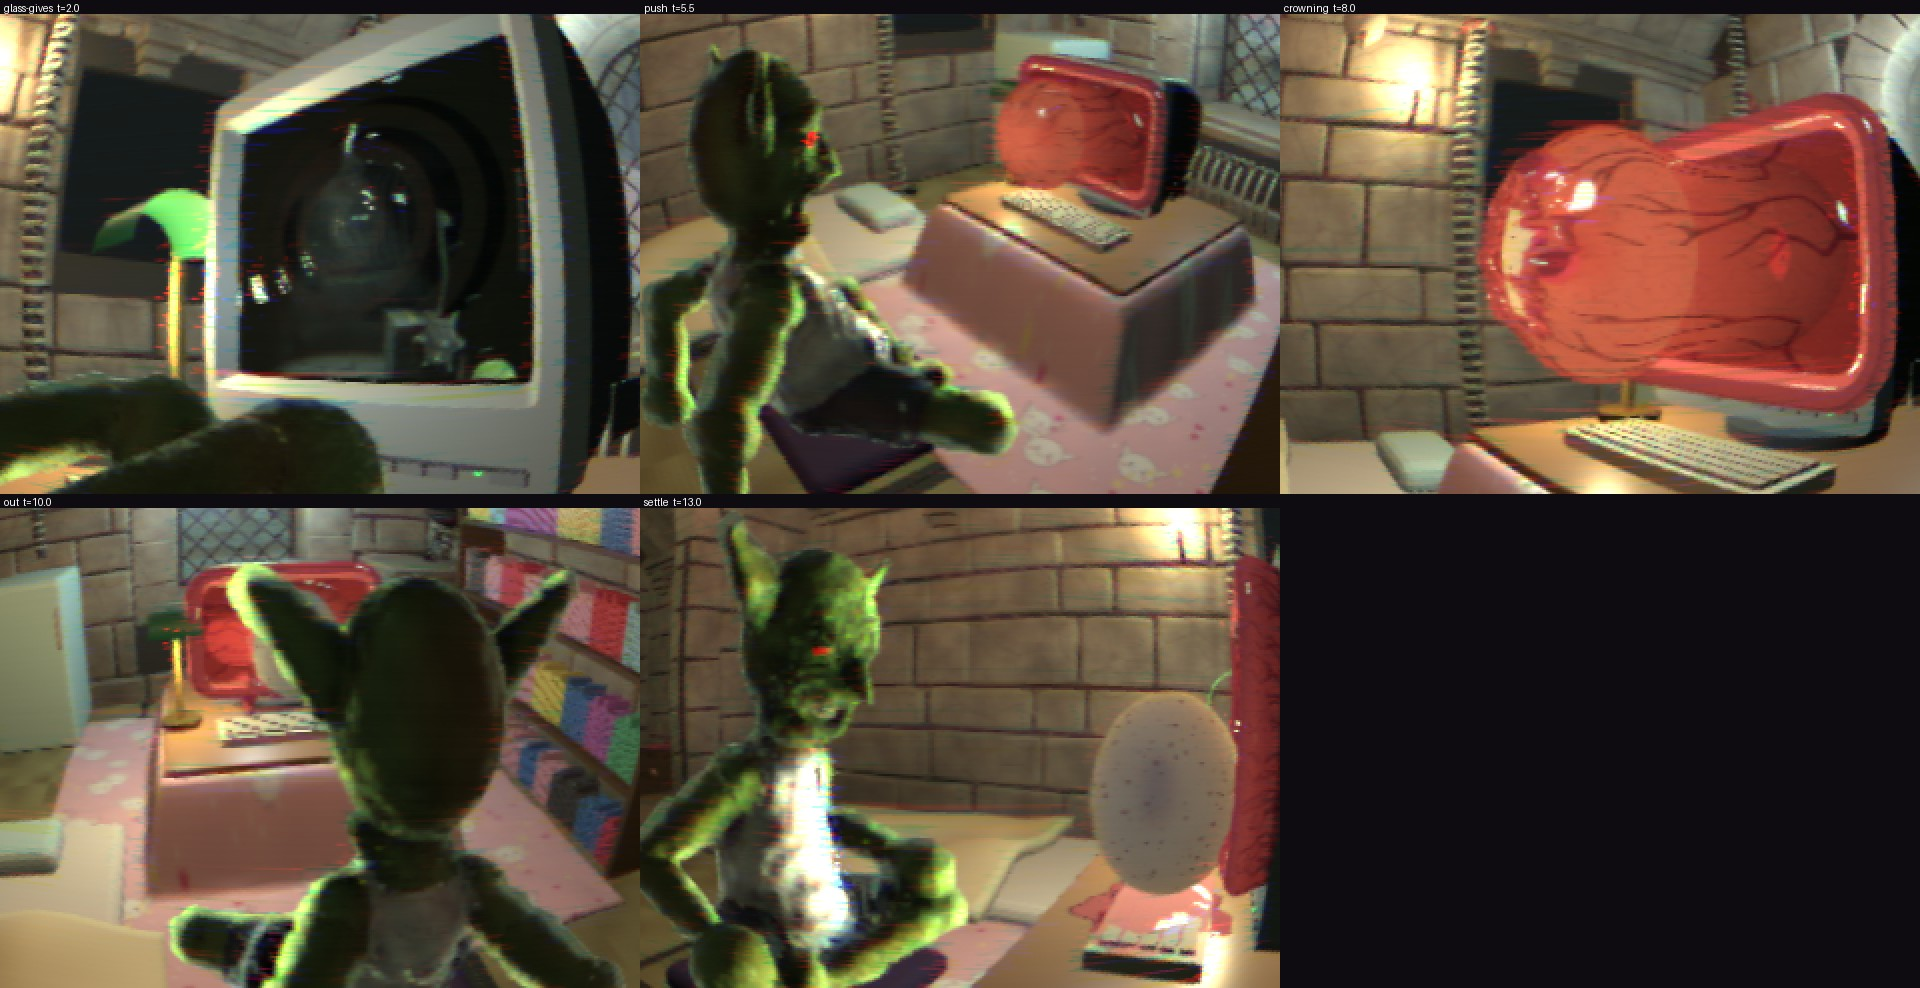
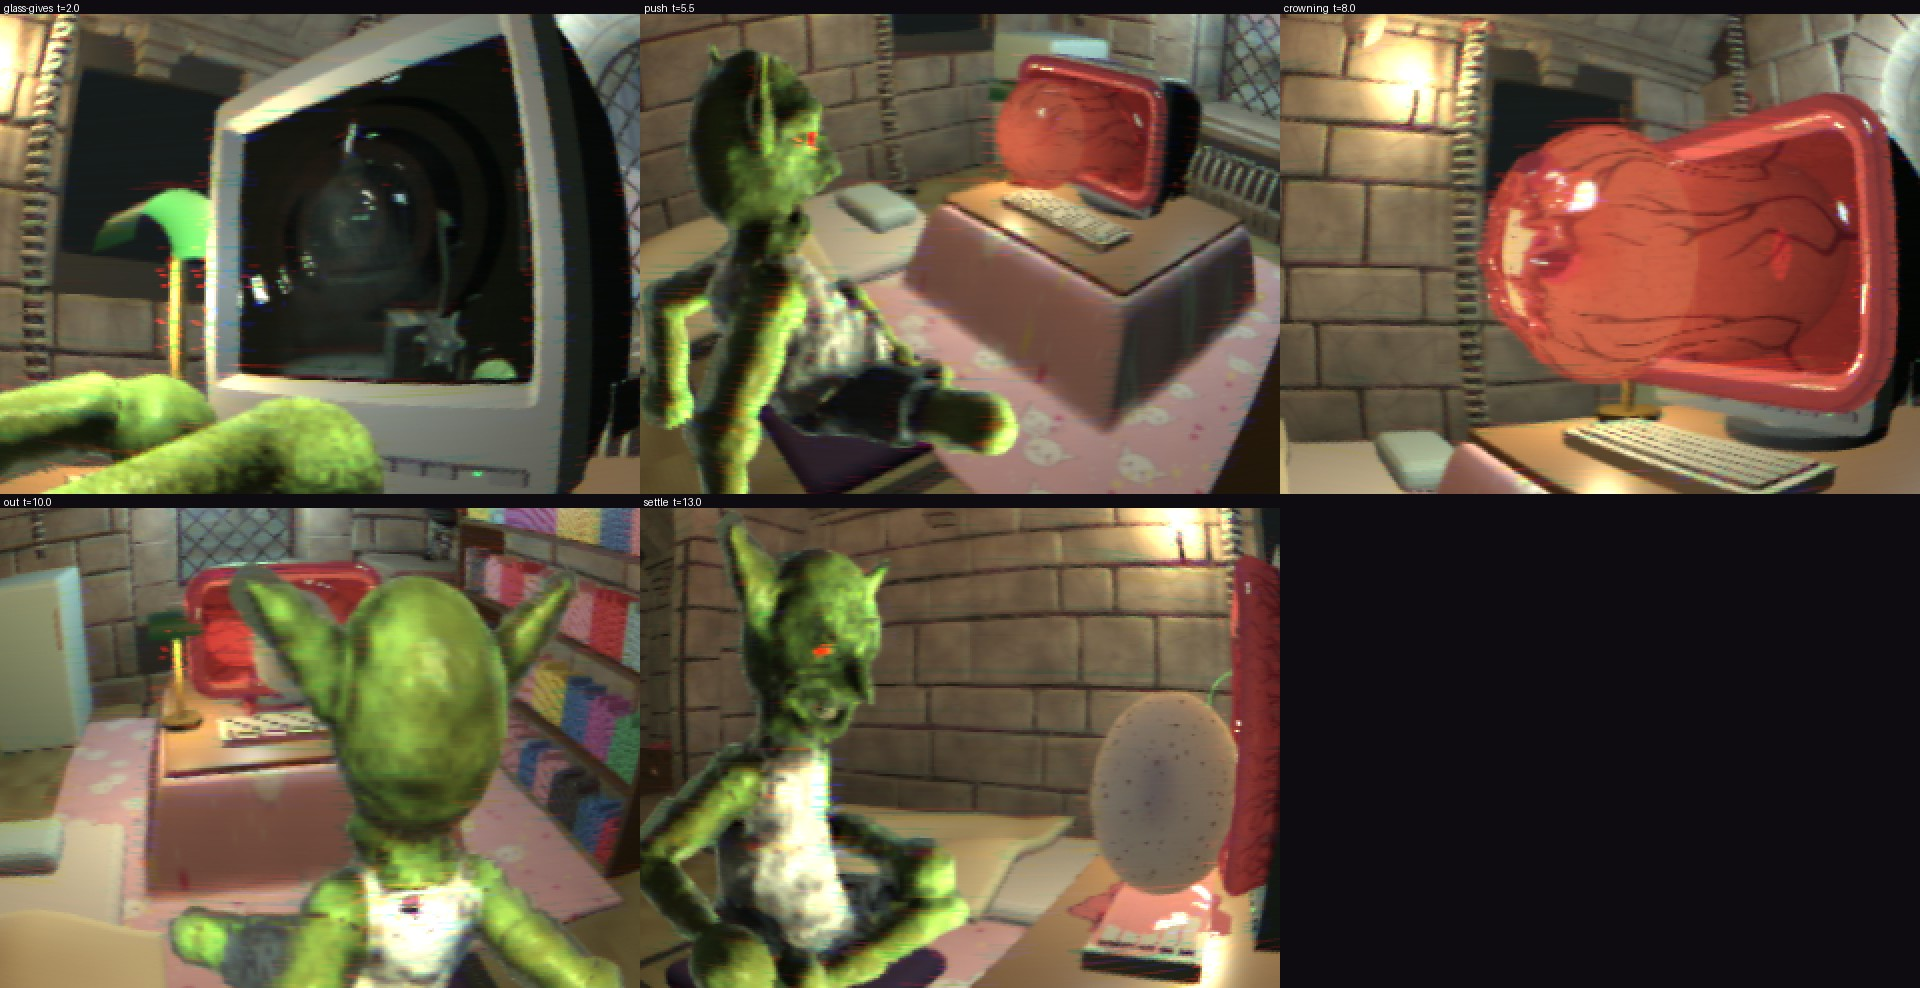
docs(emergence): the room-lamp key and the solid vest, a new sheet

diff --git a/docs/dev-notes/2026-10-16-emergence-in-the-flat/NOTES.md b/docs/dev-notes/2026-10-16-emergence-in-the-flat/NOTES.md
@@ -3,7 +3,7 @@
 **Spec:** [`2026-10-16-emergence-in-the-flat-design.md`](../../superpowers/specs/2026-10-16-emergence-in-the-flat-design.md) · **Plan:** [`2026-10-16-emergence-in-the-flat.md`](../../superpowers/plans/2026-10-16-emergence-in-the-flat.md) · **Branch:** `claude/emergence-in-the-flat`, stacked on `claude/screen-emergence-lab` (PR goblincore/blud#47).
 **Parent notes:** [the lab spike](../2026-10-11-screen-emergence/NOTES.md) (the pass, the timeline, look rounds) · [goblin expressions](../2026-10-13-goblin-expressions/) · [goblin human height](../2026-10-11-goblin-human-height/).
 
-**Sheet:** [`sheet.jpg`](sheet.jpg): the five key frames (glass gives 2.0, push 5.5, crowning 8.0, out 10.0, settle 13.0) at 320 x 240, from `npm run flat-emergence:check`. 320 x 240 is the hardest case: the vest's cloth shell (about 4.6 mm) is under a pixel there and speckles whatever the lighting; the default flow (400 x 300 march, the trained t16 upscaler to 800 x 600) is clean.
+**Sheet:** [`sheet.jpg`](sheet.jpg): the five key frames (glass gives 2.0, push 5.5, crowning 8.0, out 10.0, settle 13.0) at 320 x 240, from `npm run flat-emergence:check`. 320 x 240 is the hardest case; the default flow (400 x 300 march, the trained t16 upscaler to 800 x 600) is cleaner still. The sheet was re-taken 2026-10-20 after the lighting and vest changes below.
 
 ## What was built
 
@@ -33,7 +33,10 @@ The egg-out-of-the-monitor scene plays in the real game, in the Flat, on a debug
 
 ## Lighting (the look round after the first run, 2026-10-18)
 
-The owner saw a "weird white fuzzy cobweb" round the goblin. It was his cold rim (`GOBLIN_RIM` 1.5, `compose.wgsl.ts`: `pow(1 - n.v, 4)` times the key side, unclamped): on the unstable normals of a silhouette at 320 x 240 it throws white HDR sparks onto the air round him. One boot, A/B through the `emergencePuppet()` seam: gone at rim 0, worse with the footprint accept off. The game now lights him with no rim and a fill of 0.30 (was 0.10), `GAME_RIM`/`GAME_FILL` in `game-emergence.ts`. The lab page keeps `GOBLIN_RIM`/`GOBLIN_FILL` and may show the same sparkle at low resolution. He is still lit by a key aimed at the lamp, not by the level's light list (the list is off by default in the game; the actors use `applyWindowKey` and `applyRoomFill`).
+The owner saw a "weird white fuzzy cobweb" round the goblin. It was his cold rim (`GOBLIN_RIM` 1.5, `compose.wgsl.ts`: `pow(1 - n.v, 4)` times the key side, unclamped): on the unstable normals of a silhouette at 320 x 240 it throws white HDR sparks onto the air round him. One boot, A/B through the `emergencePuppet()` seam: gone at rim 0, worse with the footprint accept off. The game now lights him with no rim and a fill of 0.30 (was 0.10), `GAME_RIM`/`GAME_FILL` in `game-emergence.ts`. The lab page keeps `GOBLIN_RIM`/`GOBLIN_FILL` and may show the same sparkle at low resolution. 
+**Room-lamp key (2026-10-20, owner: "light the goblin properly from the room's lamps").** Each step the puppet takes the game's own path for a body off the shared light list (the list is off by default): `applyWindowKey` (direction, strength and flicker of the lamp that presents him), `applyRoomFill`, `applySelfShadow`, from his place in the room (`litFromRoom`, `game-emergence.ts`). The Flat's lamps are deep orange: at the lamp's full colour his green skin went brown, so his key takes the lamp's colour at 0.25 (`KEY_TINT`; `?emergencetint=`). `?emergencekey=0` keeps the old fixed key aimed at the banker's lamp, for an A/B. Effect: the vest no longer blows out to white at the settle, and his hands read in the typing shot. From behind (the 10 s cut) he is still dark: the lamp is in front of him.
+
+**The vest (2026-10-20).** The speckle across his chest was the 3.5 mm cloth shell hit or missed pixel by pixel at 320 x 240 (the green flesh and white cloth dithered). The two vest shells are now 5.5 mm authored (7.2 mm at 1.70 m) and solid; the old e9e7dd cloth then blew out under the lamp, so it is cfcdc0, a worn grey-white. `goblin-cinematic-home.blob` only; `goblin-cinematic-home.test.ts` allows this one documented difference from `goblin-home.blob`; the pack golden is re-pinned. The painted tank top under the cloth (shared with the cinematic source) stays e9e7dd.
 
 ## The first-show stall
 
@@ -45,8 +48,7 @@ Recorded, not gated. CPU per frame in the game: puppet 1.1 to 1.7 ms, pass under
 
 ## Known issues and open items
 
-- **The vest speckles at 320 x 240** (a thin cloth shell under a pixel); clean in the normal flow.
-- **The goblin is still dark from behind** in the push shot (the key is the lamp's direction; the room is warm and dim); fill 0.30 helps, a proper room light would be better.
+- **He is dark from behind** in the out shot (10 s): the lamp is in front of him; fill 0.30 and the lamp key help.
 - **Flashlight:** held off during the sequence and left off at the hand-off (owner 2026-10-19); the player can switch it back on.
 - **Deferred render mode is untested** (the puppet registers lazily in `stepEmergence`).
 - **His march is not shell-bounded** (the outer-hull shell is built from the actors only; binding it discards every pixel, so `puppetGpuOpts` leaves it out): a possible cost.
